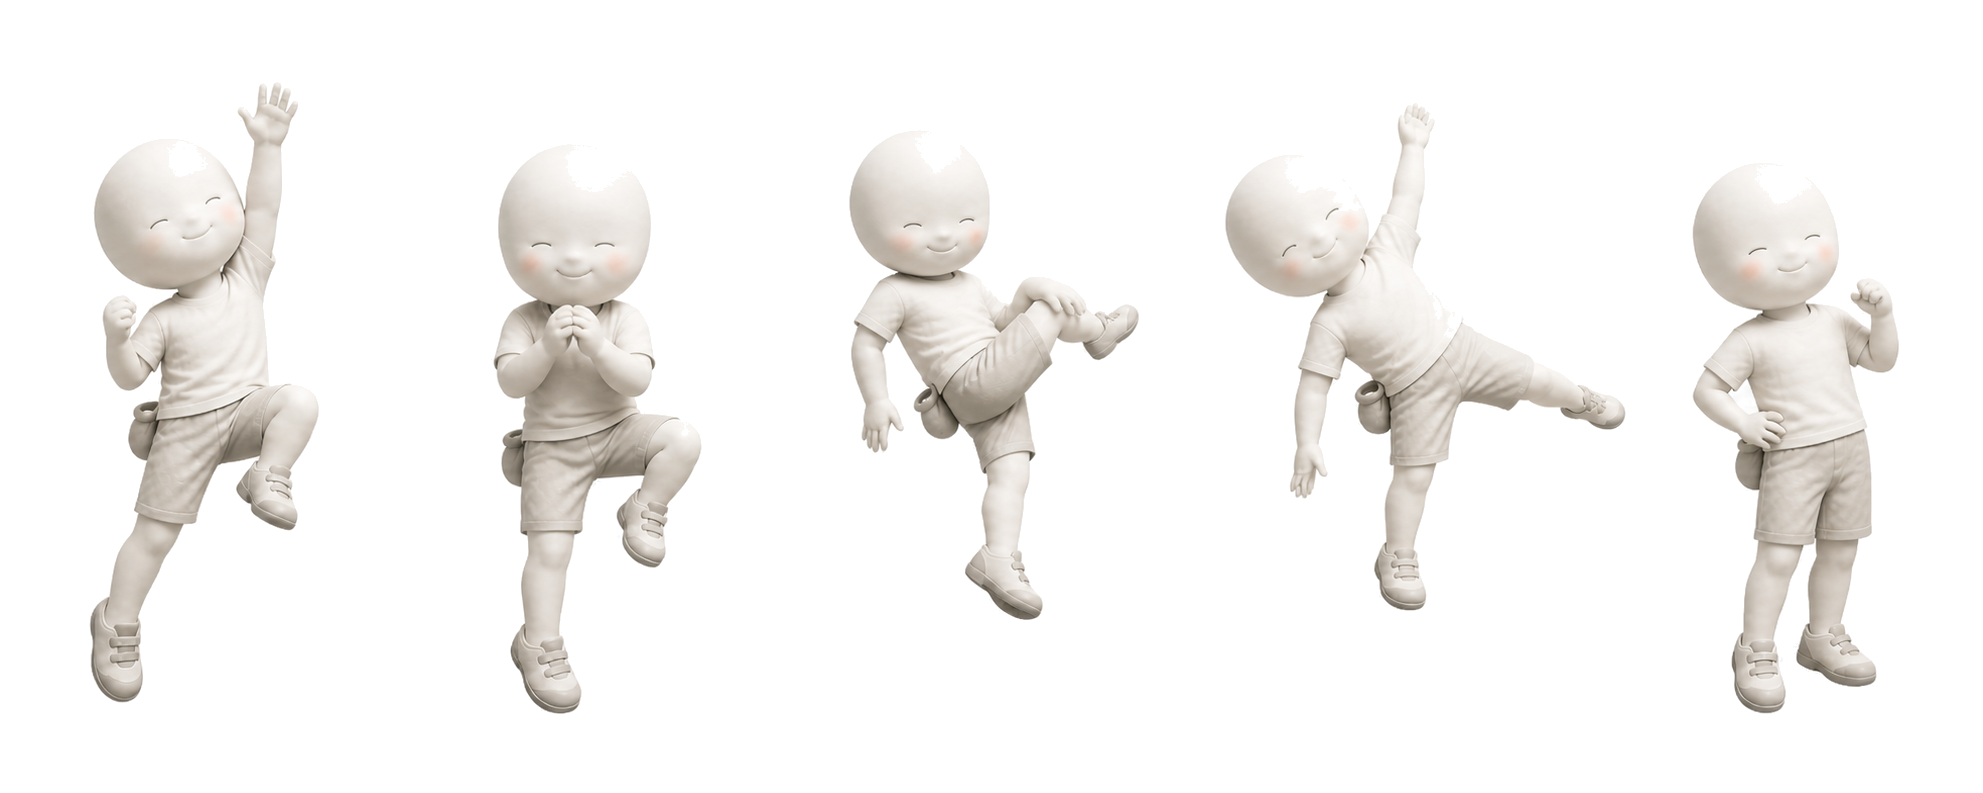
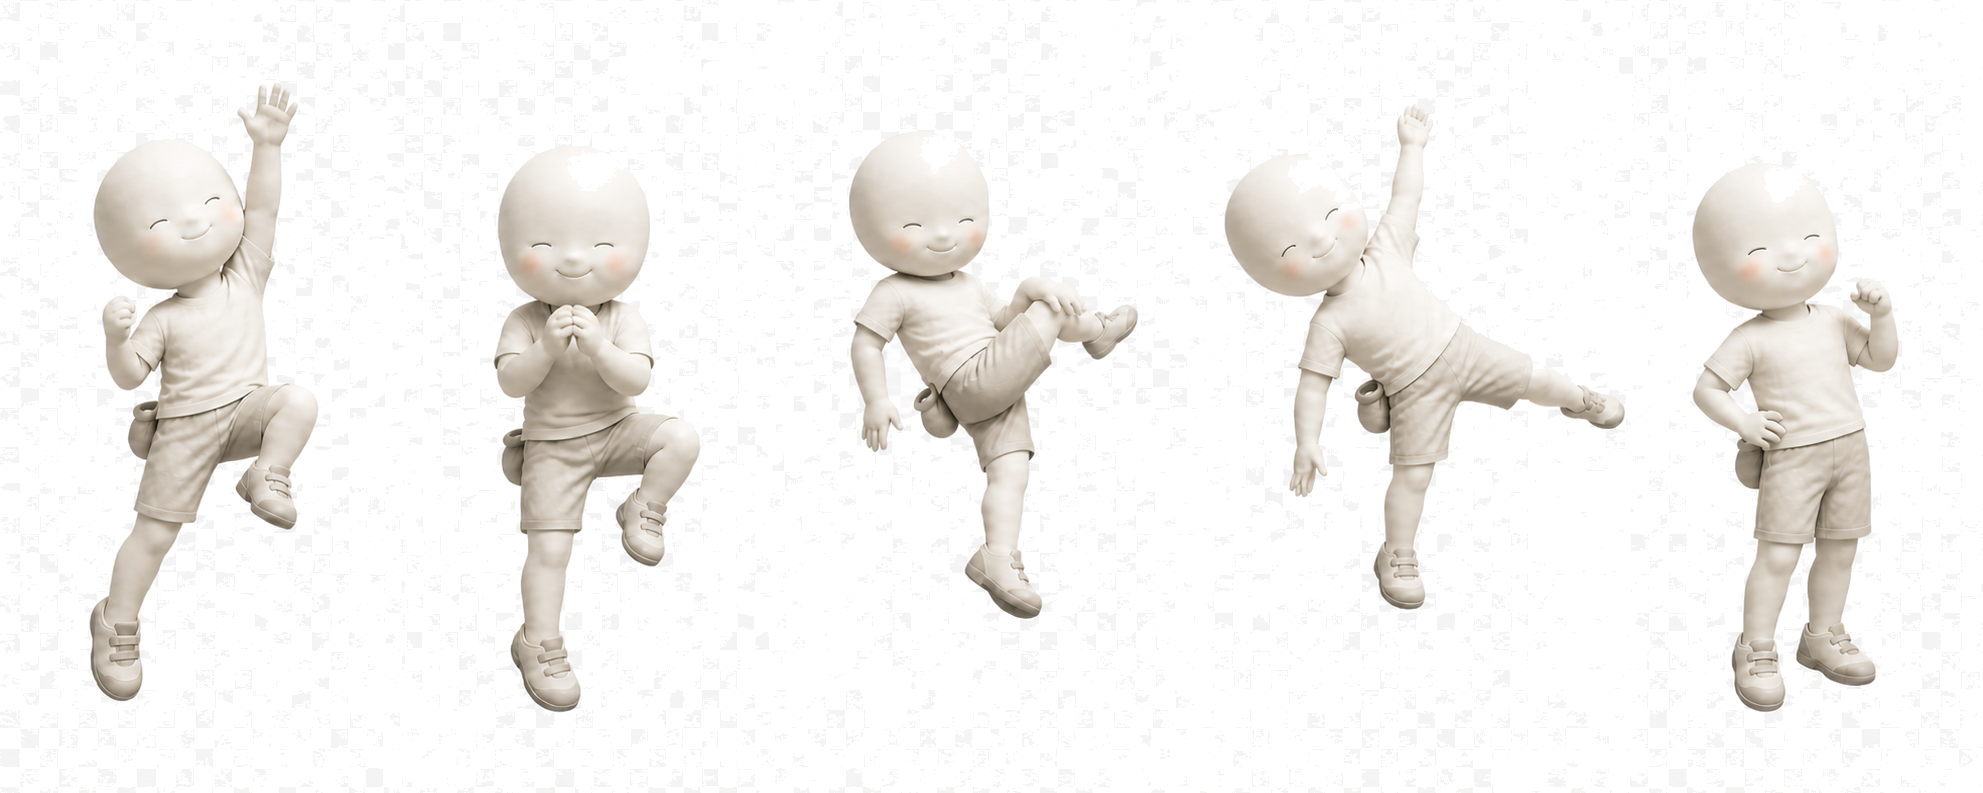
Remove mascot checkerboard background

diff --git a/index.html b/index.html
@@ -227,7 +227,7 @@ function bind(){
 async function init(){try{setStatus("正在连接共享日历…");await ensureAuth();await joinGroup();await loadAll();subscribeRealtime();bind();renderAll();$("body").classList.remove("hidden");hideStatus();showGuideIfNeeded()}catch(e){console.error(e);const message=e.message||String(e);if(!state.groupCode&&message.includes("首次使用")){$("joinPanel").classList.remove("hidden");setStatus("首次打开请选择或粘贴一条邀请链接。加入后会自动记住。",false);return}setStatus(`连接失败：${message}`,true)}}
 renderWeek=function(){const a=monday(state.cursor),days=Array.from({length:7},(_,i)=>{const d=new Date(a);d.setDate(a.getDate()+i);return d}),weekNames=["日","一","二","三","四","五","六"],peopleFor=sessions=>[...new Map(sessions.flatMap(s=>s.participants.map(p=>[p.member_id,member(p.member_id)])).filter(([,u])=>u)).values()],overview=days.map(d=>{const ds=iso(d),events=sessionsOn(ds),people=peopleFor(events),gyms=new Set(events.map(s=>s.gym_id||"none")),mine=events.some(s=>s.participants.some(p=>p.member_id===state.currentMemberId));return`<button class="weekoverviewday ${events.length?"hasplans":""} ${mine?"mine":""} ${ds===today()?"today":""}" data-week-jump="${ds}" type="button" aria-label="${d.getMonth()+1}月${d.getDate()}日，${events.length?`${gyms.size}家岩馆，${people.length}人`:"暂无行程"}${mine?"，我已参加":""}"><span class="overviewdow">${weekNames[d.getDay()]}</span><b>${d.getDate()}</b><em>${events.length?`${gyms.size}馆`:"—"}</em></button>`}).join("");$("calendarBody").innerHTML=`<div class="calbox"><div class="weekoverview" aria-label="本周快速导航">${overview}</div><div class="weekgrid">${days.map(d=>{const ds=iso(d),groups={};sessionsOn(ds).forEach(s=>(groups[s.gym_id||"none"]??=[]).push(s));return`<div class="weekcol" data-week-date="${ds}"><div class="weekday">${["SUN","MON","TUE","WED","THU","FRI","SAT"][d.getDay()]}</div><div class="weeknum">${d.getDate()}</div>${Object.entries(groups).map(([gymId,sessions])=>{const g=gym(gymId),groupPeople=peopleFor(sessions),slots={};sessions.forEach(s=>(slots[s.start_time]??=[]).push(s));return`<article class="weekgymcard"><div class="weekgymhead"><span class="weekgymtag">${esc(g?.name||"未指定")}</span><span class="weekgymcount">${groupPeople.length}人</span></div>${Object.entries(slots).map(([time,slotSessions])=>{const people=peopleFor(slotSessions),types=[...new Set(slotSessions.map(s=>s.climb_type))];return`<div class="weekslot"><span class="weektime">${String(time).slice(0,5)}</span><div><div class="weektype">${esc(types.join(" / "))}</div><div class="weekpeople">${people.map(u=>`<span class="weekperson"><i style="background:${u.color}"></i>${esc(u.display_name)}</span>`).join("")||"<span class=\"weekperson\">暂无参加者</span>"}</div></div></div>`}).join("")}</article>`}).join("")}</div>`}).join("")}</div></div>`;document.querySelectorAll("[data-week-jump]").forEach(b=>b.addEventListener("click",()=>{state.selectedDate=b.dataset.weekJump;renderDetail();document.querySelector(`[data-week-date="${b.dataset.weekJump}"]`)?.scrollIntoView({behavior:"smooth",block:"start"})}))};
 renderYear=function(){const y=state.cursor.getFullYear(),mini=m=>{const f=new Date(y,m,1),off=(f.getDay()+6)%7,n=new Date(y,m+1,0).getDate();let h="";for(let i=0;i<off;i++)h+="<span></span>";for(let d=1;d<=n;d++){const ids=peopleOn(iso(new Date(y,m,d)));h+=`<span class="miniday">${ids.slice(0,4).map(id=>{const u=member(id);return u?`<i style="background:${u.color}"></i>`:""}).join("")}</span>`}return h};$("calendarBody").innerHTML=`<div class="calbox"><div class="yeargrid">${Array.from({length:12},(_,m)=>`<button class="minimonth" data-year-month="${m}" type="button" aria-label="查看 ${m+1} 月日历"><div class="minititle">${m+1}月</div><div class="minigrid">${mini(m)}</div></button>`).join("")}</div></div>`;document.querySelectorAll("[data-year-month]").forEach(b=>b.addEventListener("click",()=>{const m=Number(b.dataset.yearMonth);state.mode="month";state.cursor=new Date(y,m,1);state.selectedDate=iso(new Date(y,m,1));document.querySelectorAll("[data-mode]").forEach(x=>x.classList.toggle("active",x.dataset.mode==="month"));renderCalendar()}))};
-function monthSessions(){const now=new Date(),start=new Date(now.getFullYear(),now.getMonth(),1),end=new Date(now.getFullYear(),now.getMonth()+1,1);return state.sessions.filter(s=>{const d=parse(s.climb_date);return d>=start&&d<end})}function effortStats(){const byMember=new Map(state.members.filter(m=>m.active).map(m=>[m.id,{member:m,count:0,days:new Set()}]));monthSessions().forEach(s=>s.participants.forEach(p=>{const item=byMember.get(p.member_id);if(item){item.count++;item.days.add(s.climb_date)}}));return[...byMember.values()].filter(x=>x.count).sort((a,b)=>b.count-a.count||b.days.size-a.days.size||a.member.display_name.localeCompare(b.member.display_name))}function gymStats(){const byGym=new Map();monthSessions().forEach(s=>{const item=byGym.get(s.gym_id)||{gym:gym(s.gym_id),count:0,people:0};item.count++;item.people+=s.participants.length;byGym.set(s.gym_id,item)});return[...byGym.values()].sort((a,b)=>b.count-a.count||b.people-a.people||String(a.gym?.name||"").localeCompare(String(b.gym?.name||"")))}function rankChart(rows,value,key){const max=Math.max(1,...rows.map(x=>x[value])),step=Math.max(5,Math.ceil(max/3/5)*5),ceiling=step*3,xAt=i=>rows.length===1?170:58+i*(244/(rows.length-1)),yAt=n=>221-n/ceiling*150,ticks=[step*3,step*2,step];return`<div class="rankwall"><svg class="rankchart" viewBox="0 0 340 265" preserveAspectRatio="none" aria-hidden="true">${ticks.map(t=>`<line class="rankgrid" x1="31" y1="${yAt(t)}" x2="328" y2="${yAt(t)}"/><text class="rankaxis" x="4" y="${yAt(t)+3}">${t}</text>`).join("")}<polyline class="rankline" points="${rows.map((x,i)=>`${xAt(i)},${yAt(x[value])}`).join(" ")}"/>${rows.map((x,i)=>`<circle class="rankdot" cx="${xAt(i)}" cy="${yAt(x[value])}" r="4"/>`).join("")}</svg>${rows.map((x,i)=>`<div class="ranknode" style="left:${xAt(i)/340*100}%;top:${yAt(x[value])}px"><span><b>0${i+1}</b> ${esc(x[key].display_name)}</span><i class="rankmascot pose${i%5}" aria-hidden="true"></i></div>`).join("")}</div>`}function renderRanks(){state.rankTab=state.rankTab||"friends";document.querySelectorAll("[data-rank-tab]").forEach(b=>b.classList.toggle("active",b.dataset.rankTab===state.rankTab));if(state.rankTab==="friends"){const rows=effortStats().slice(0,5);$("rankBody").innerHTML=rows.length?rankChart(rows,"count","member")+`<div class="ranklist">${rows.map((x,i)=>`<div class="rankrow"><b>0${i+1}</b><span>${esc(x.member.display_name)}</span><small>${x.count} 次 · ${x.days.size} 天</small></div>`).join("")}</div>`:`<div class="ranklist rankempty">这个月还没有约爬记录。</div>`;return}const rows=gymStats().slice(0,5);$("rankBody").innerHTML=rows.length?`<div class="ranklist">${rows.map((x,i)=>`<div class="rankrow"><b>0${i+1}</b><span>${esc(x.gym?.name||"未指定")}</span><small>${x.count} 场 · ${x.people} 人次</small></div>`).join("")}</div>`:`<div class="ranklist rankempty">这个月还没有岩馆记录。</div>`}function saveMonthlyEffort(){const me=member(state.currentMemberId);if(!me)return alert("请先在顶部选择“我是谁”，再保存本月努力卡。");const img=new Image();img.onload=()=>drawEffortCard(img);img.onerror=()=>drawEffortCard(null);img.src="./climbing-mascot-actions.png";function drawEffortCard(image){const mine=effortStats().find(x=>x.member.id===me.id)||{count:0,days:new Set()},now=new Date(),canvas=document.createElement("canvas"),ctx=canvas.getContext("2d"),w=1080,h=1350,template=Math.floor(Math.random()*3),pose=Math.floor(Math.random()*5);canvas.width=w;canvas.height=h;const palettes=[["#f4f1ea","#b96f43","#1b1a18"],["#20201f","#e29a72","#fffaf2"],["#e8eee9","#4f8a8b","#17322f"]][template];ctx.fillStyle=palettes[0];ctx.fillRect(0,0,w,h);ctx.fillStyle=palettes[1];if(template===0){ctx.beginPath();ctx.arc(w,120,310,0,Math.PI*2);ctx.fill();ctx.fillStyle="rgba(255,255,255,.27)";for(let i=0;i<8;i++){ctx.beginPath();ctx.arc(100+i*145,860-(i%3)*55,26,0,Math.PI*2);ctx.fill()}}else if(template===1){ctx.fillRect(0,0,40,h);ctx.fillRect(w-40,0,40,h);ctx.globalAlpha=.16;ctx.beginPath();ctx.moveTo(0,980);ctx.lineTo(280,630);ctx.lineTo(550,810);ctx.lineTo(820,480);ctx.lineTo(w,710);ctx.lineTo(w,h);ctx.lineTo(0,h);ctx.fill();ctx.globalAlpha=1}else{ctx.globalAlpha=.14;for(let i=0;i<7;i++){ctx.beginPath();ctx.arc(130+i*145,170+(i%2)*80,65,0,Math.PI*2);ctx.fill()}ctx.globalAlpha=1}ctx.fillStyle=palettes[2];ctx.textAlign="left";ctx.font="700 42px system-ui, sans-serif";ctx.fillText(`${now.getFullYear()} 年 ${now.getMonth()+1} 月`,78,100);ctx.font="900 78px system-ui, sans-serif";ctx.fillText("本月努力记录",78,195);ctx.font="800 38px system-ui, sans-serif";ctx.fillText(me.display_name,82,266);ctx.font="700 30px system-ui, sans-serif";ctx.fillStyle=template===1?"#d8d0c5":"#5f594f";ctx.fillText("今日、登る？",82,h-82);ctx.fillStyle=palettes[2];ctx.font="900 136px system-ui, sans-serif";ctx.fillText(String(mine.count),82,1040);ctx.font="800 34px system-ui, sans-serif";ctx.fillText("次约爬",88,1090);ctx.fillText(`${mine.days.size} 天到馆`,435,1090);ctx.font="900 78px system-ui, sans-serif";ctx.fillText(String(mine.days.size),430,1040);if(image){const cell=image.naturalWidth/5;ctx.drawImage(image,pose*cell,0,cell,image.naturalHeight,template===1?515:470,300,500,625)}else{ctx.font="220px sans-serif";ctx.fillText("🧗",520,690)}canvas.toBlob(blob=>{if(!blob)return;const link=document.createElement("a");link.href=URL.createObjectURL(blob);link.download=`${me.display_name}-${now.getFullYear()}-${now.getMonth()+1}-努力记录.png`;link.click();setTimeout(()=>URL.revokeObjectURL(link.href),1000)},"image/png")}};renderAll=function(){renderIdentity();renderFilters();renderCalendar();renderSessions();renderRanks();renderGyms();renderCreator();if(!$("friendManager").classList.contains("hidden"))renderManager()};document.querySelectorAll("[data-rank-tab]").forEach(b=>b.addEventListener("click",()=>{state.rankTab=b.dataset.rankTab;renderRanks()}));$("saveEffort").addEventListener("click",openEffortCard);document.querySelectorAll("[data-page]").forEach(b=>b.addEventListener("click",()=>$("newBtn").classList.toggle("hidden",b.dataset.page==="rank")));
+function monthSessions(){const now=new Date(),start=new Date(now.getFullYear(),now.getMonth(),1),end=new Date(now.getFullYear(),now.getMonth()+1,1);return state.sessions.filter(s=>{const d=parse(s.climb_date);return d>=start&&d<end})}function effortStats(){const byMember=new Map(state.members.filter(m=>m.active).map(m=>[m.id,{member:m,count:0,days:new Set()}]));monthSessions().forEach(s=>s.participants.forEach(p=>{const item=byMember.get(p.member_id);if(item){item.count++;item.days.add(s.climb_date)}}));return[...byMember.values()].filter(x=>x.count).sort((a,b)=>b.count-a.count||b.days.size-a.days.size||a.member.display_name.localeCompare(b.member.display_name))}function gymStats(){const byGym=new Map();monthSessions().forEach(s=>{const item=byGym.get(s.gym_id)||{gym:gym(s.gym_id),count:0,people:0};item.count++;item.people+=s.participants.length;byGym.set(s.gym_id,item)});return[...byGym.values()].sort((a,b)=>b.count-a.count||b.people-a.people||String(a.gym?.name||"").localeCompare(String(b.gym?.name||"")))}function rankChart(rows,value,key){const max=Math.max(1,...rows.map(x=>x[value])),step=Math.max(5,Math.ceil(max/3/5)*5),ceiling=step*3,xAt=i=>rows.length===1?170:58+i*(244/(rows.length-1)),yAt=n=>221-n/ceiling*150,ticks=[step*3,step*2,step];return`<div class="rankwall"><svg class="rankchart" viewBox="0 0 340 265" preserveAspectRatio="none" aria-hidden="true">${ticks.map(t=>`<line class="rankgrid" x1="31" y1="${yAt(t)}" x2="328" y2="${yAt(t)}"/><text class="rankaxis" x="4" y="${yAt(t)+3}">${t}</text>`).join("")}<polyline class="rankline" points="${rows.map((x,i)=>`${xAt(i)},${yAt(x[value])}`).join(" ")}"/>${rows.map((x,i)=>`<circle class="rankdot" cx="${xAt(i)}" cy="${yAt(x[value])}" r="4"/>`).join("")}</svg>${rows.map((x,i)=>`<div class="ranknode" style="left:${xAt(i)/340*100}%;top:${yAt(x[value])}px"><span><b>0${i+1}</b> ${esc(x[key].display_name)}</span><i class="rankmascot pose${i%5}" aria-hidden="true"></i></div>`).join("")}</div>`}function renderRanks(){state.rankTab=state.rankTab||"friends";document.querySelectorAll("[data-rank-tab]").forEach(b=>b.classList.toggle("active",b.dataset.rankTab===state.rankTab));if(state.rankTab==="friends"){const rows=effortStats().slice(0,5);$("rankBody").innerHTML=rows.length?rankChart(rows,"count","member")+`<div class="ranklist">${rows.map((x,i)=>`<div class="rankrow"><b>0${i+1}</b><span>${esc(x.member.display_name)}</span><small>${x.count} 次 · ${x.days.size} 天</small></div>`).join("")}</div>`:`<div class="ranklist rankempty">这个月还没有约爬记录。</div>`;return}const rows=gymStats().slice(0,5);$("rankBody").innerHTML=rows.length?`<div class="ranklist">${rows.map((x,i)=>`<div class="rankrow"><b>0${i+1}</b><span>${esc(x.gym?.name||"未指定")}</span><small>${x.count} 场 · ${x.people} 人次</small></div>`).join("")}</div>`:`<div class="ranklist rankempty">这个月还没有岩馆记录。</div>`}function saveMonthlyEffort(){const me=member(state.currentMemberId);if(!me)return alert("请先在顶部选择“我是谁”，再保存本月努力卡。");const img=new Image();img.onload=()=>drawEffortCard(img);img.onerror=()=>drawEffortCard(null);img.src="./climbing-mascot-actions-transparent.png";function drawEffortCard(image){const mine=effortStats().find(x=>x.member.id===me.id)||{count:0,days:new Set()},now=new Date(),canvas=document.createElement("canvas"),ctx=canvas.getContext("2d"),w=1080,h=1350,template=Math.floor(Math.random()*3),pose=Math.floor(Math.random()*5);canvas.width=w;canvas.height=h;const palettes=[["#f4f1ea","#b96f43","#1b1a18"],["#20201f","#e29a72","#fffaf2"],["#e8eee9","#4f8a8b","#17322f"]][template];ctx.fillStyle=palettes[0];ctx.fillRect(0,0,w,h);ctx.fillStyle=palettes[1];if(template===0){ctx.beginPath();ctx.arc(w,120,310,0,Math.PI*2);ctx.fill();ctx.fillStyle="rgba(255,255,255,.27)";for(let i=0;i<8;i++){ctx.beginPath();ctx.arc(100+i*145,860-(i%3)*55,26,0,Math.PI*2);ctx.fill()}}else if(template===1){ctx.fillRect(0,0,40,h);ctx.fillRect(w-40,0,40,h);ctx.globalAlpha=.16;ctx.beginPath();ctx.moveTo(0,980);ctx.lineTo(280,630);ctx.lineTo(550,810);ctx.lineTo(820,480);ctx.lineTo(w,710);ctx.lineTo(w,h);ctx.lineTo(0,h);ctx.fill();ctx.globalAlpha=1}else{ctx.globalAlpha=.14;for(let i=0;i<7;i++){ctx.beginPath();ctx.arc(130+i*145,170+(i%2)*80,65,0,Math.PI*2);ctx.fill()}ctx.globalAlpha=1}ctx.fillStyle=palettes[2];ctx.textAlign="left";ctx.font="700 42px system-ui, sans-serif";ctx.fillText(`${now.getFullYear()} 年 ${now.getMonth()+1} 月`,78,100);ctx.font="900 78px system-ui, sans-serif";ctx.fillText("本月努力记录",78,195);ctx.font="800 38px system-ui, sans-serif";ctx.fillText(me.display_name,82,266);ctx.font="700 30px system-ui, sans-serif";ctx.fillStyle=template===1?"#d8d0c5":"#5f594f";ctx.fillText("今日、登る？",82,h-82);ctx.fillStyle=palettes[2];ctx.font="900 136px system-ui, sans-serif";ctx.fillText(String(mine.count),82,1040);ctx.font="800 34px system-ui, sans-serif";ctx.fillText("次约爬",88,1090);ctx.fillText(`${mine.days.size} 天到馆`,435,1090);ctx.font="900 78px system-ui, sans-serif";ctx.fillText(String(mine.days.size),430,1040);if(image){const cell=image.naturalWidth/5;ctx.drawImage(image,pose*cell,0,cell,image.naturalHeight,template===1?515:470,300,500,625)}else{ctx.font="220px sans-serif";ctx.fillText("🧗",520,690)}canvas.toBlob(blob=>{if(!blob)return;const link=document.createElement("a");link.href=URL.createObjectURL(blob);link.download=`${me.display_name}-${now.getFullYear()}-${now.getMonth()+1}-努力记录.png`;link.click();setTimeout(()=>URL.revokeObjectURL(link.href),1000)},"image/png")}};renderAll=function(){renderIdentity();renderFilters();renderCalendar();renderSessions();renderRanks();renderGyms();renderCreator();if(!$("friendManager").classList.contains("hidden"))renderManager()};document.querySelectorAll("[data-rank-tab]").forEach(b=>b.addEventListener("click",()=>{state.rankTab=b.dataset.rankTab;renderRanks()}));$("saveEffort").addEventListener("click",openEffortCard);document.querySelectorAll("[data-page]").forEach(b=>b.addEventListener("click",()=>$("newBtn").classList.toggle("hidden",b.dataset.page==="rank")));
 const effortCardState={action:0,layout:0,background:0};const effortBackgrounds=["./effort-gym-warm.png","./effort-gym-routes.png","./effort-gym-sage.png"],effortImageCache=new Map();function effortImage(src){if(effortImageCache.has(src))return effortImageCache.get(src);const promise=new Promise(resolve=>{const img=new Image();img.onload=()=>resolve(img);img.onerror=()=>resolve(null);img.src=src});effortImageCache.set(src,promise);return promise}function currentEffortSummary(){const me=member(state.currentMemberId),sessions=me?monthSessions().filter(s=>s.participants.some(p=>p.member_id===me.id)):[];return{me,climbs:sessions.length,gyms:new Set(sessions.map(s=>s.gym_id)).size}}function effortCopy(){const now=new Date();return`${now.getMonth()+1}月1日 — ${now.getMonth()+1}月${now.getDate()}日`}function wrapCanvasText(ctx,text,x,y,maxWidth,lineHeight){let line="",row=0;for(const char of text){if(ctx.measureText(line+char).width>maxWidth&&line){ctx.fillText(line,x,y+row*lineHeight);line=char;row++}else line+=char}if(line)ctx.fillText(line,x,y+row*lineHeight)}async function renderEffortCard(){const summary=currentEffortSummary();if(!summary.me)return;const canvas=$("effortCardPreview"),ctx=canvas.getContext("2d"),w=canvas.width,h=canvas.height,night=false,[background,mascot]=await Promise.all([effortImage(effortBackgrounds[effortCardState.background]),effortImage("./climbing-mascot-actions-transparent.png")]);ctx.clearRect(0,0,w,h);if(background)ctx.drawImage(background,0,0,w,h);else{ctx.fillStyle="#e8e2d7";ctx.fillRect(0,0,w,h)}const layouts=[[78,156,80,316,450,350,512,350],[76,190,76,358,420,470,530,250],[74,142,74,292,500,402,470,390]],layout=layouts[effortCardState.layout],ink=night?"#fffaf2":"#241f1a",soft=night?"rgba(20,16,12,.62)":"rgba(255,252,247,.72)";ctx.fillStyle=soft;ctx.beginPath();ctx.roundRect(48,58,Math.min(620,w-96),490,42);ctx.fill();ctx.fillStyle=ink;ctx.textAlign="left";ctx.font="900 76px system-ui, sans-serif";ctx.fillText("这个月你也努力了！",layout[0],layout[1]);ctx.font="800 31px system-ui, sans-serif";ctx.fillStyle=night?"#f1d2bc":"#8a4c2f";ctx.fillText("ID",layout[2],layout[3]-72);ctx.font="900 58px system-ui, sans-serif";ctx.fillStyle=ink;ctx.fillText(summary.me.display_name,layout[2],layout[3]);ctx.font="700 38px system-ui, sans-serif";wrapCanvasText(ctx,`你在 ${effortCopy()} 爬了 ${summary.climbs} 次，去了 ${summary.gyms} 家岩馆。`,layout[4],layout[5],500,58);ctx.font="750 28px system-ui, sans-serif";ctx.fillStyle=night?"#e6d6c6":"#665b50";ctx.fillText("今日、登る？",78,h-82);if(mascot){const cell=mascot.naturalWidth/5;ctx.drawImage(mascot,effortCardState.action*cell,0,cell,mascot.naturalHeight,layout[6],layout[7],450,600)}}function randomizeEffort(kind){if(kind==="action")effortCardState.action=Math.floor(Math.random()*5);if(kind==="layout")effortCardState.layout=Math.floor(Math.random()*3);if(kind==="background")effortCardState.background=Math.floor(Math.random()*3);if(kind==="all"){effortCardState.action=Math.floor(Math.random()*5);effortCardState.layout=Math.floor(Math.random()*3);effortCardState.background=Math.floor(Math.random()*3)}renderEffortCard().catch(e=>alert(`生成预览失败：${e.message}`))}function openEffortCard(){if(!currentEffortSummary().me)return alert("请先在顶部选择“我是谁”，再保存本月努力卡。");randomizeEffort("all");$("effortCardModal").classList.remove("hidden")}function downloadEffortCard(){const summary=currentEffortSummary();if(!summary.me)return;$("effortCardPreview").toBlob(blob=>{if(!blob)return;const link=document.createElement("a");link.href=URL.createObjectURL(blob);link.download=`${summary.me.display_name}-${new Date().getFullYear()}-${new Date().getMonth()+1}-努力记录.png`;link.click();setTimeout(()=>URL.revokeObjectURL(link.href),1000)},"image/png")}
 $("closeEffortCard").addEventListener("click",()=>$('effortCardModal').classList.add("hidden"));$("randomAction").addEventListener("click",()=>randomizeEffort("action"));$("randomLayout").addEventListener("click",()=>randomizeEffort("layout"));$("randomBackground").addEventListener("click",()=>randomizeEffort("background"));$("randomAll").addEventListener("click",()=>randomizeEffort("all"));$("downloadEffortCard").addEventListener("click",downloadEffortCard);
 init();
